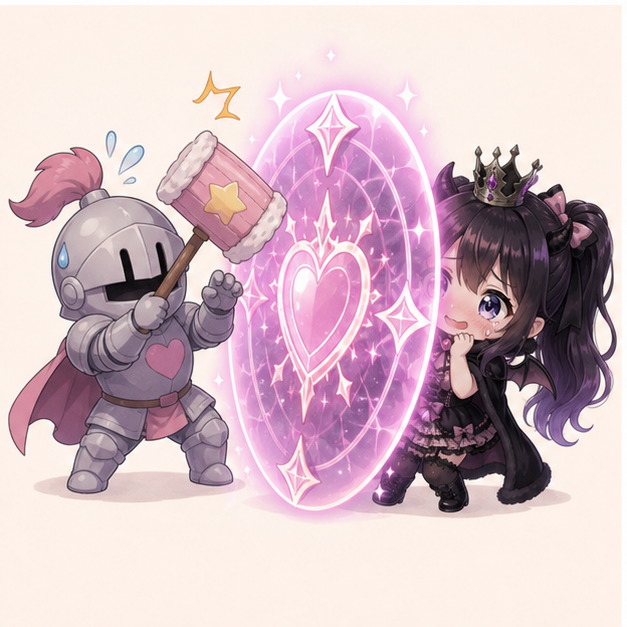
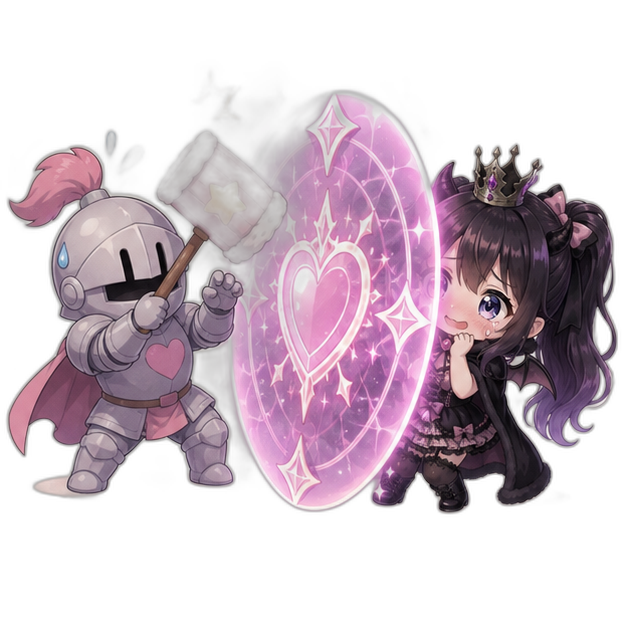
fix: 캐릭터/씬 이미지 배경 제거 + 보스 이미지 screen 블렌드 적용
- 마왕 캐릭터 4종, 메인캐릭 2종, scene 4종: rembg로 흰 배경 제거
- 보스 이미지(검은 배경): mix-blend-mode:screen으로 배경 투명 처리

diff --git a/styles.css b/styles.css
@@ -1097,6 +1097,12 @@ h1 {
   transition: filter 1.2s ease;
 }
 
+/* 보스 이미지는 검은 배경 → screen 블렌드로 제거 */
+.stage-panel.is-boss .arena-enemy {
+  mix-blend-mode: screen;
+  filter: drop-shadow(0 0 18px rgba(255, 180, 255, 0.5));
+}
+
 /* 층 구간별 적 이미지 색조 변화 — 이미지 교체 없이 분위기 전환 */
 .stage-panel[data-floor-tier="rise"] .arena-enemy {
   filter: drop-shadow(0 22px 24px rgba(36,23,32,0.24)) hue-rotate(20deg) saturate(1.1);
